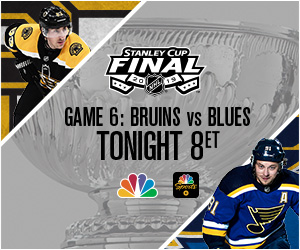
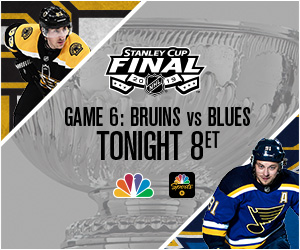
300x250

Changed region(s): [[0.36, 0.672, 0.69, 0.812]]

diff --git a/060919_BOS-STL/html_css/SCP19_060919_BOS-STL_TONIGHT_300x250/style.css b/060919_BOS-STL/html_css/SCP19_060919_BOS-STL_TONIGHT_300x250/style.css
@@ -112,7 +112,7 @@ body{
 
 	#logo_nbcsn {
 		position: absolute;
-		left: 117px;
+		left: 113px;
 		top: 173px;	
 		width: 41px;
 		height: 25px;
@@ -139,7 +139,7 @@ body{
 
 	#logo_app {
 		position: absolute;
-		left: 173px;
+		left: 169px;
 		top: 172px;	
 		width: 26px;
 		height: 26px;

diff --git a/060919_BOS-STL/html_css/SCP19_060919_BOS-STL_WATCH-NOW_300x250/style.css b/060919_BOS-STL/html_css/SCP19_060919_BOS-STL_WATCH-NOW_300x250/style.css
@@ -112,7 +112,7 @@ body{
 
 	#logo_nbcsn {
 		position: absolute;
-		left: 117px;
+		left: 113px;
 		top: 173px;	
 		width: 41px;
 		height: 25px;
@@ -139,7 +139,7 @@ body{
 
 	#logo_app {
 		position: absolute;
-		left: 173px;
+		left: 169px;
 		top: 172px;	
 		width: 26px;
 		height: 26px;
